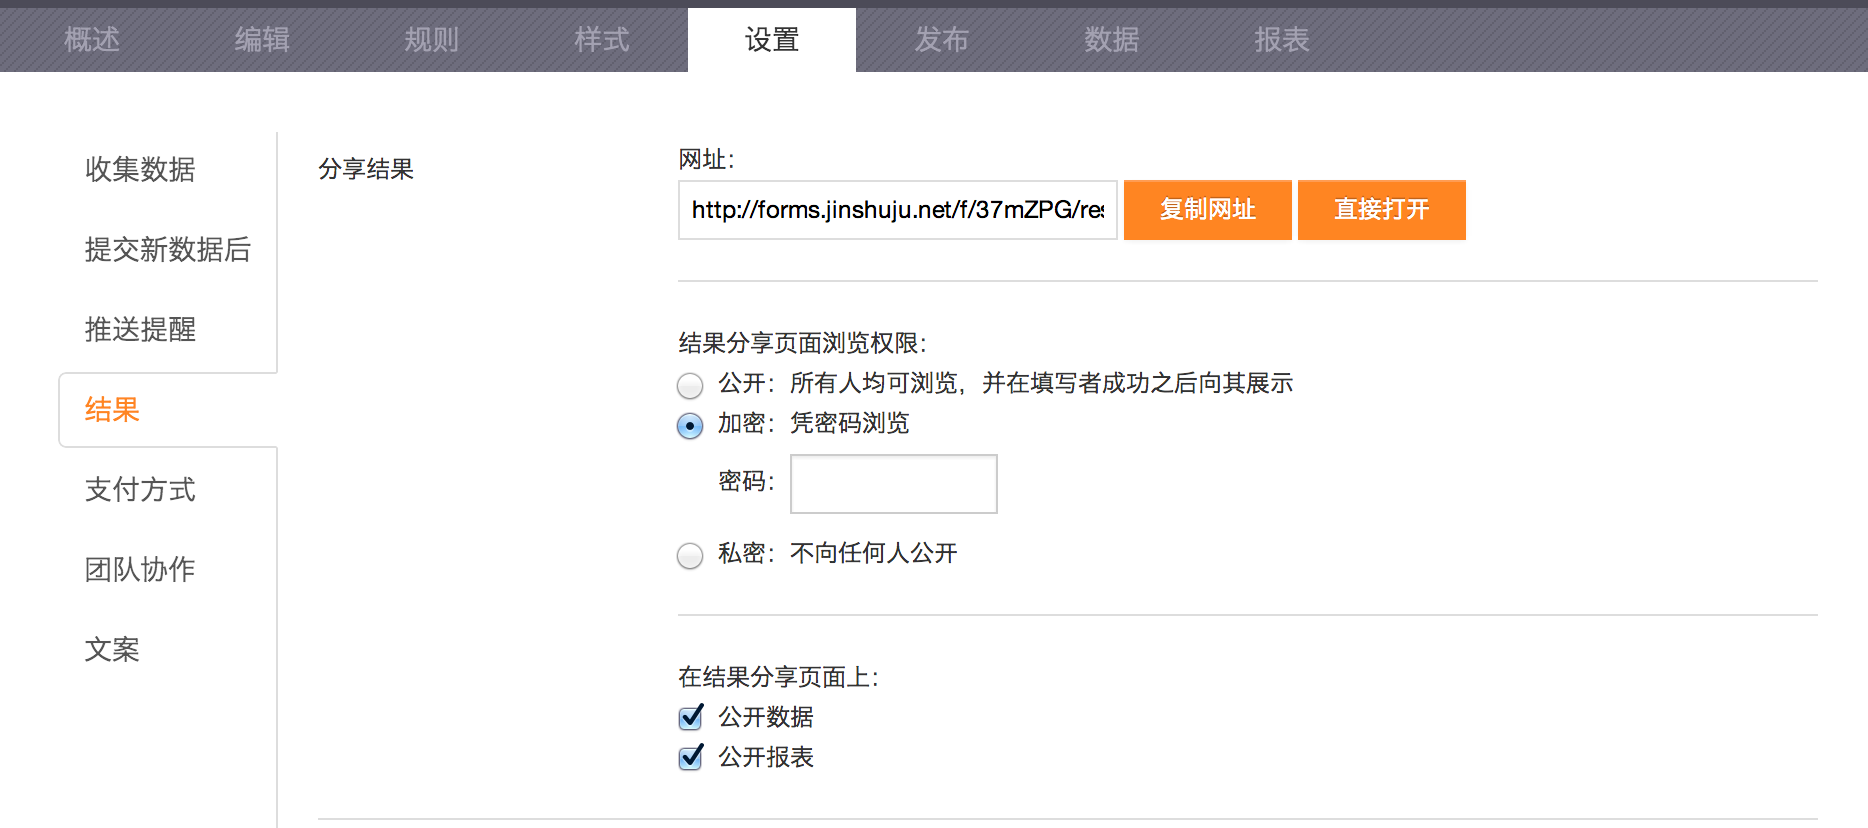
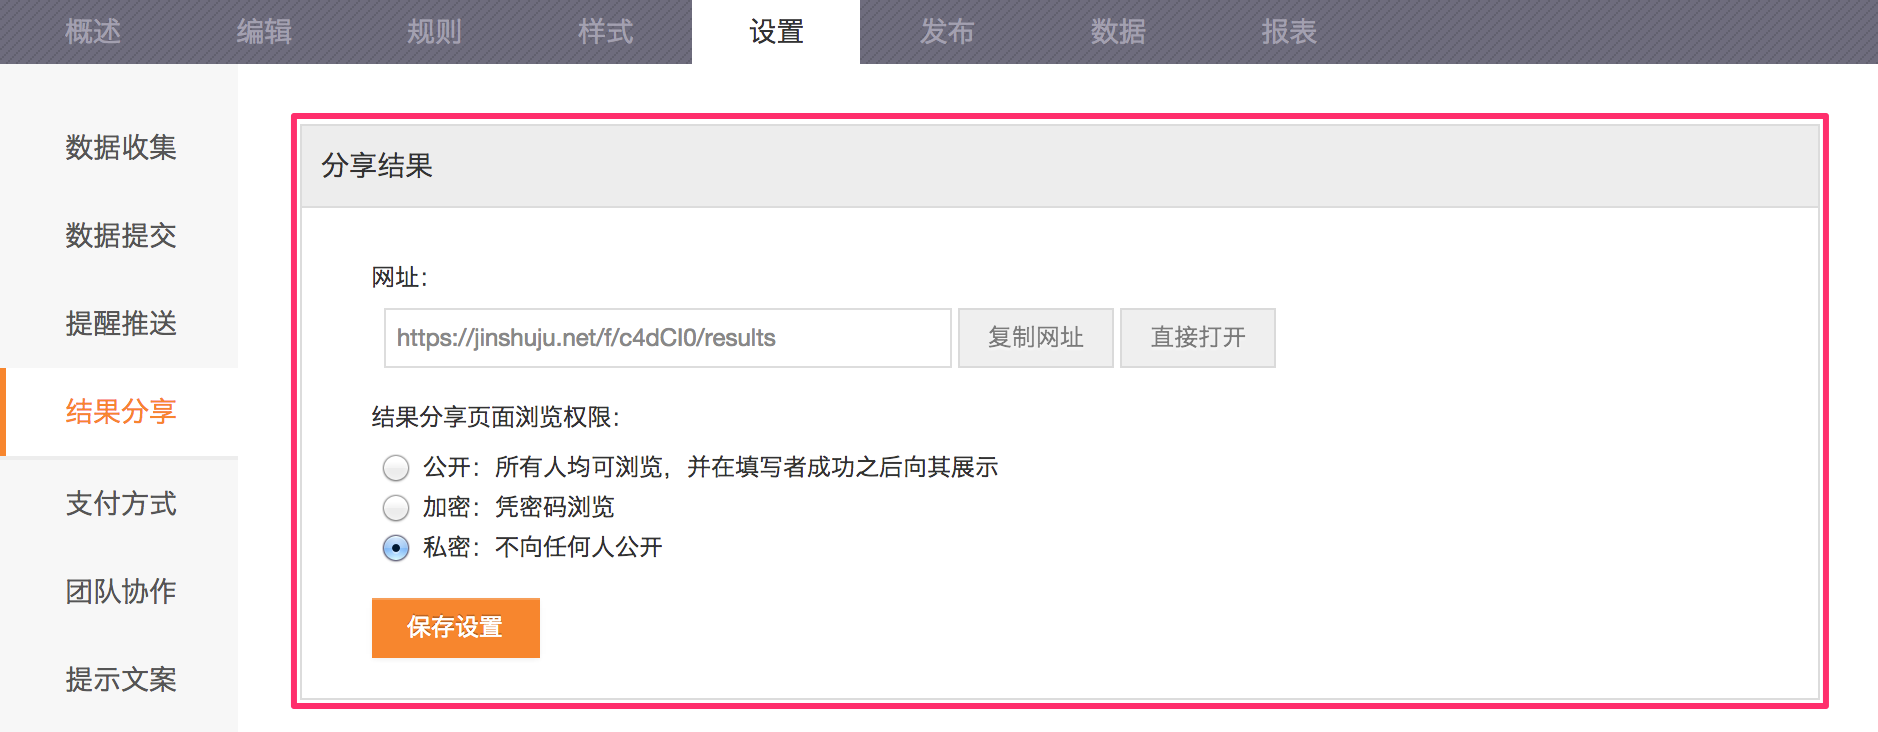
rewrite share-result

diff --git a/_posts/2014-2-7-share-result.md b/_posts/2014-2-7-share-result.md
@@ -3,32 +3,28 @@ layout: post
 title:  "分享结果给所有人"
 date:   2014-03-23 12:12:12
 category: data
+tags: edited
 ---
 
-当您的表单收集完数据之后，默认的结果页面是完全私密，不向任何人公开的。有时候，您可能希望把结果页面发布出去，供其他用户查看。在金数据中，可以分享的内容包括：**详细的数据信息**，**报表信息**。
+您可以将表单已收集的 **数据** 及其 **报表** 有的放矢地公开或凭密码查看。
 
-### 进入设置页面，选择“结果”
+例如您制作了一个投票类的表单，希望用户在投票后能查看投票结果，那么此时您可以设置 **分享结果**。
 
-![index](/images/share-result-index.png)
+###### 您的分享结果的设置默认是 **私密：不向任何人公开**。
 
-1. 选择分享的范围，包括：**公开**，**加密**，**私密**。
+### 设置流程
 
-   ![scope](/images/share-result-scope.png)
+1. 进入 **设置** —— **结果分享**，分享结果位于页面的上部。
+	![index](/images/share-result-index.png)
+
+1. 您可以设置查看结果页面的权限，**加密：凭密码浏览** 指用户打开结果页面后，需要输入指定的密码才能查看。
+	![auth](/images/share-result-auth.png)
    
-2. 当分享的范围为公开或者加密时，可以选择分享的内容。
-
+2. 当您将查看结果页面的权限设置为 **公开** 或 **加密** 时，您可以设置结果页面要显示的内容，以及 **数据** 要显示的列及 **报表** 要显示的项目。
    ![content](/images/share-result-content.png)
-   
-3. 您还可以对分享的内容做一些过滤，比如只分享某些列的数据。
 
-    ![filter](/images/share-result-filter.png)
-    
-4. 当这些设置保存之后，您就可以把结果页面的链接通过各种渠道发布出去，供用户来查看。我们一起来看个分享出来的表单结果页面。
-    
-    数据结果页面
-    
-    ![data](/images/share-result-data.png)
-    
-    报表结果页面
-    
-    ![report](/images/share-result-report.png)
+3. 设置好了，让我们看看效果吧！打开页面提示输入查看密码。
+   ![pass](/images/share-result-pass.png)
+
+4. 密码正确，显示数据页面，您可以通过右上角切换到报表页面。
+   ![data](/images/share-result-data.png)
